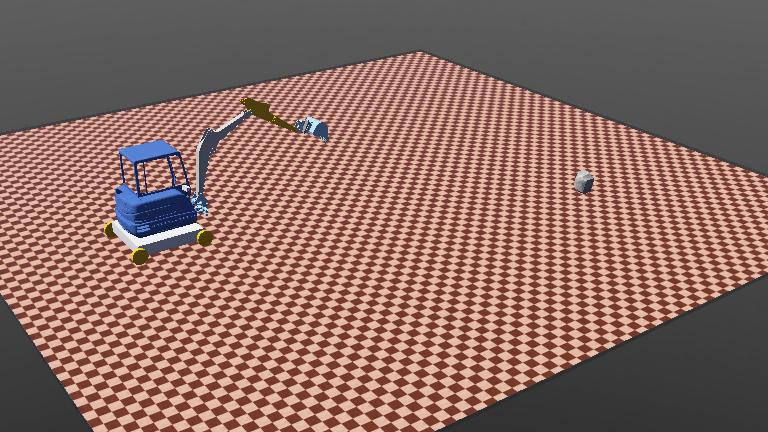
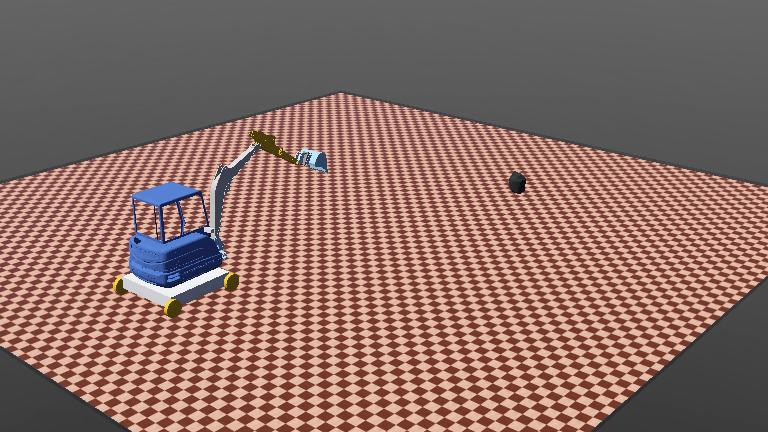
checkpoint: ready to developed

diff --git a/controllers/conventional_color_control/conventional_color_control.py b/controllers/conventional_color_control/conventional_color_control.py
@@ -25,7 +25,7 @@ class ConventionalControl(Supervisor):
         self.robot = self.getFromDef("EXCAVATOR")
         self.max_motor_speed = MAX_MOTOR_SPEED
         self.max_wheel_speed = 4.0
-        self.target_threshold = 0.1
+        self.target_threshold = 0.01
 
         self.floor = self.getFromDef("FLOOR")
         self.set_arena_boundaries()
@@ -38,8 +38,13 @@ class ConventionalControl(Supervisor):
         self.right_wheels = [self.wheel_motors["rf"], self.wheel_motors["rb"]]
 
         # Set color range for target detection
-        self.lower_color = np.array([45, 51, 53])
-        self.upper_color = np.array([47, 53, 55])
+        self.color_target = np.array([46, 52, 54])
+        color_tolerance = 5
+        self.lower_color = self.color_target - color_tolerance
+        self.upper_color = self.color_target + color_tolerance
+        
+        # Set initial move
+        self.initial_move = random.choice([0, 1])
 
     def set_arena_boundaries(self):
         arena_tolerance = 1.0
@@ -86,7 +91,7 @@ class ConventionalControl(Supervisor):
             )
             if self.is_done(target_area, centroid):
                 print("sip.")
-                # self.digging_operation()
+                # self.digging_operation()  
                 exit(1)
 
     def get_observation(self, width, height, frame_area):
@@ -129,7 +134,7 @@ class ConventionalControl(Supervisor):
         self.display.imageDelete(segmented_image)
 
     def recognition_process(self, image, width, height, frame_area):
-        target_px, x_sum, y_sum = 0, 0, 0
+        target_px, target_area = 0, 0        
         x_min, x_max, y_min, y_max = width, 0, height, 0
 
         for y in range(height):
@@ -140,9 +145,7 @@ class ConventionalControl(Supervisor):
                     and self.lower_color[1] <= g <= self.upper_color[1]
                     and self.lower_color[2] <= b <= self.upper_color[2]
                 ):
-                    target_px += 1
-                    x_sum += x
-                    y_sum += y
+                    target_px += 1                    
                     x_min, x_max = min(x_min, x), max(x_max, x)
                     y_min, y_max = min(y_min, y), max(y_max, y)
 
@@ -151,7 +154,7 @@ class ConventionalControl(Supervisor):
             return 0, [None, None]
 
         target_area = target_px / frame_area
-        centroid = [x_sum / target_px, y_sum / target_px]
+        centroid = [(x_max + x_min) / 2, (y_max + y_min) / 2]
 
         print(
             f"Centroid: ({centroid[0]:.2f}, {centroid[1]:.2f}); Target size: {x_max - x_min:.1f}x{y_max - y_min:.1f}; Target area: {target_area * 100:.2f}%"
@@ -161,9 +164,11 @@ class ConventionalControl(Supervisor):
 
     def search_target(self):
         print("No target found.")
-        self.stop_robot()
-        initial_move = random.choice([-1, 1]) * self.max_motor_speed
-        self.motors["turret"].setVelocity(initial_move)
+        
+        if self.initial_move == 0:
+            self.run_wheels(self.initial_move, "left")
+        elif self.initial_move == 1:
+            self.run_wheels(-self.initial_move, "right")        
 
     def move_towards_target(self, centroid, target_area):
         if (centroid[1] < self.moiety or target_area < 0.01) or (
@@ -173,17 +178,20 @@ class ConventionalControl(Supervisor):
         ):
             if centroid[0] <= self.center_x - self.tolerance_x:
                 self.adjust_turret_and_wheels(target_area, direction="left")
+                print("Adjusting turret and wheels to the left.")                
             elif centroid[0] >= self.center_x + self.tolerance_x:
                 self.adjust_turret_and_wheels(target_area, direction="right")
+                print("Adjusting turret and wheels to the right.")                
             else:
                 self.motors["turret"].setVelocity(0.0)
                 self.run_wheels(self.max_wheel_speed, "all")
+                print("Moving forward.")                
         else:
-            self.stop_robot()
+            self.stop_robot()        
 
     def adjust_turret_and_wheels(self, target_area, direction):
         self.motors["turret"].setVelocity(0.0)
-        if target_area < 0.01:
+        if target_area < 0.009:
             if direction == "left":
                 self.turn_left()
             elif direction == "right":
@@ -205,7 +213,7 @@ class ConventionalControl(Supervisor):
             self.center_x - self.tolerance_x,
             self.center_x + self.tolerance_x,
         ]
-        if target_area >= self.target_threshold or (
+        if target_area >= self.target_threshold and (
             x_threshold[0] <= centroid[0] <= x_threshold[1]
             and centroid[1] > self.moiety
         ):

diff --git a/controllers/main/Color_VisuoExcaRobo.py b/controllers/main/Color_VisuoExcaRobo.py
@@ -58,8 +58,8 @@ class Color_VisuoExcaRobo(Supervisor, Env):
         self.moiety = 2.0 * self.height / 3.0 + 5
 
         # Set color range for target detection
-        self.lower_color = np.array([35, 42, 44])
-        self.upper_color = np.array([55, 62, 64])
+        self.lower_color = np.array([250, 250, 250])
+        self.upper_color = np.array([255, 255, 255])
 
         # set the action spaces: 0 = left, 1 = right
         self.action_space = spaces.Box(low=-1, high=1, shape=(3,), dtype=np.float32)
